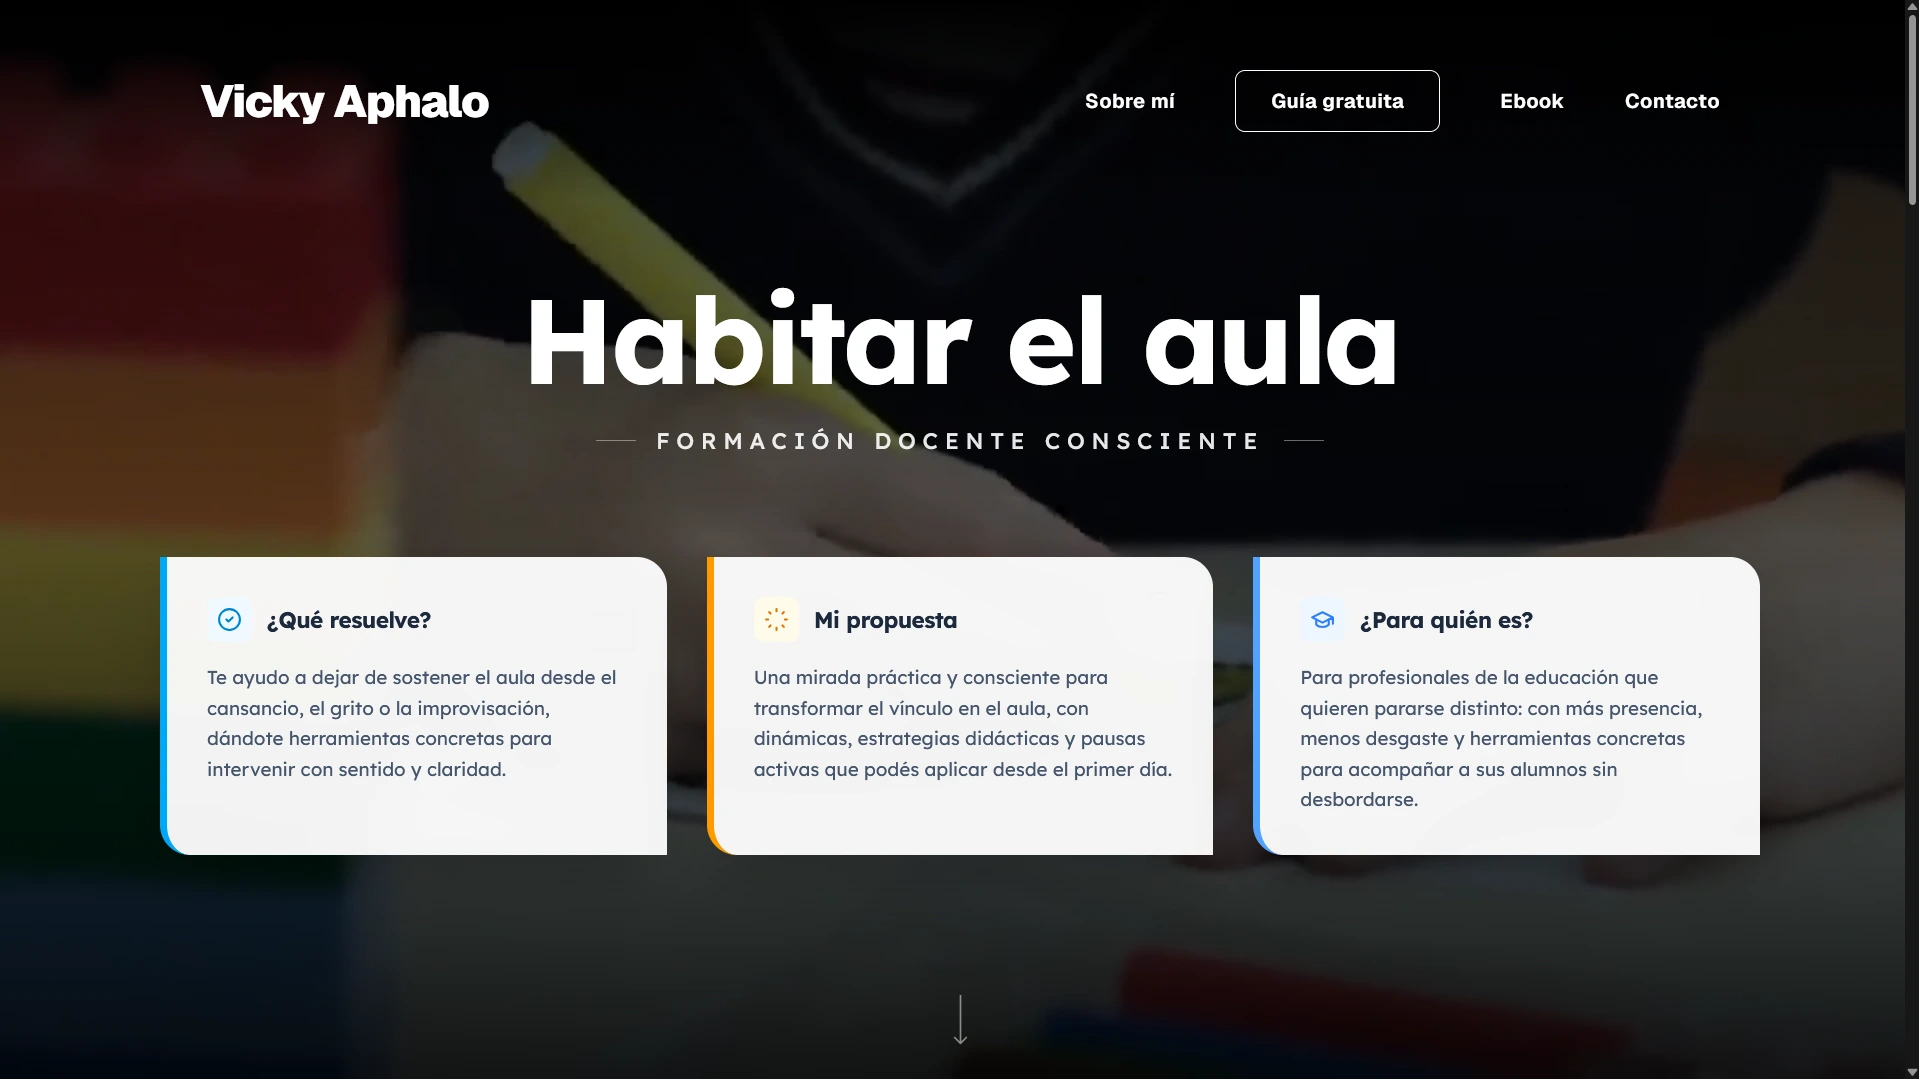
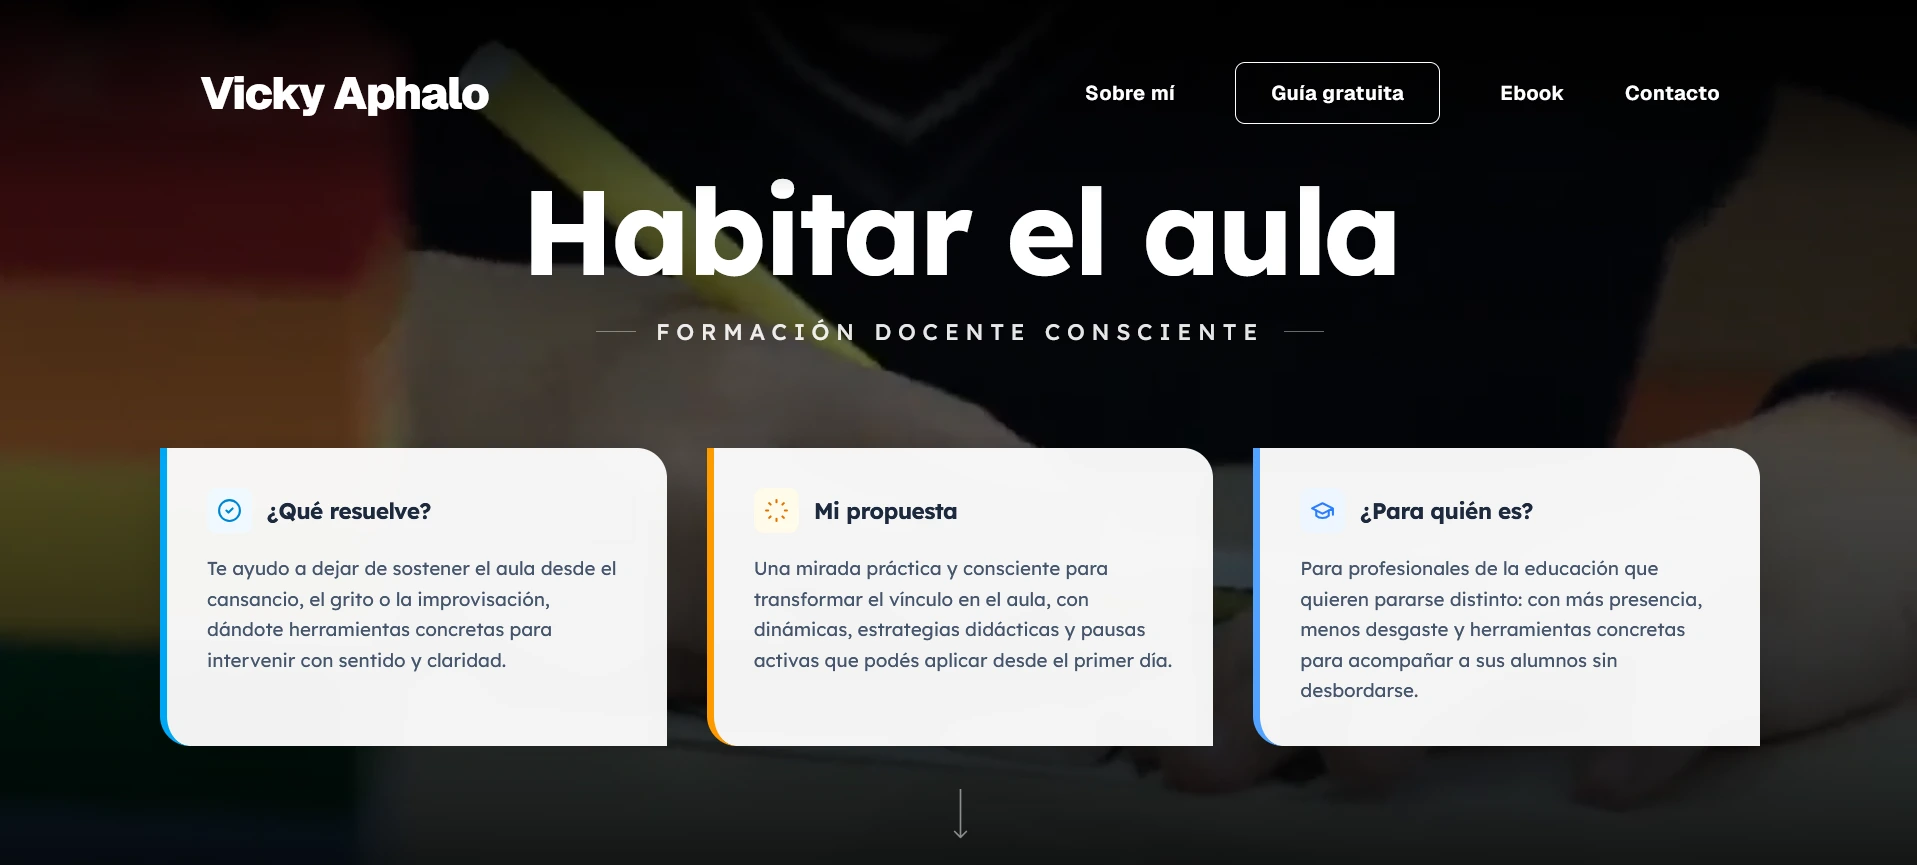
mejorando ui

diff --git a/components/sections/portfolio.tsx b/components/sections/portfolio.tsx
@@ -2,7 +2,7 @@
 
 import Image from "next/image";
 import { motion } from "framer-motion";
-import { ArrowUpRight } from "lucide-react";
+import { ArrowUpRight, Handshake } from "lucide-react";
 
 interface Project {
   client: string;
@@ -12,6 +12,40 @@ interface Project {
   link: string;
   services: string[];
   date: string;
+  metrics?: { value: string; label: string }[];
+  integrations?: { name: string; color: string; type: "mercadopago" | "gumroad" }[];
+}
+
+function MercadoPagoIcon({ className = "h-3.5 w-3.5" }: { className?: string }) {
+  return <Handshake className={className} strokeWidth={2.2} />;
+}
+
+function GumroadIcon({ className = "h-3.5 w-3.5" }: { className?: string }) {
+  return (
+    <svg viewBox="0 0 24 24" fill="currentColor" className={className}>
+      <path d="M12 0C5.373 0 0 5.373 0 12s5.373 12 12 12 12-5.373 12-12S18.627 0 12 0zm5.132 15.656c-.98 1.127-2.373 1.748-4.025 1.748-3.364 0-5.74-2.396-5.74-5.808 0-3.411 2.376-5.807 5.74-5.807 1.796 0 3.197.697 4.093 1.854l-1.637 1.412c-.59-.751-1.41-1.162-2.456-1.162-2.022 0-3.363 1.502-3.363 3.703 0 2.202 1.341 3.704 3.363 3.704 1.25 0 2.136-.5 2.682-1.341h-2.932v-2.091h5.275v3.788z" />
+    </svg>
+  );
+}
+
+function BrushUnderline({ className = "w-full h-2 text-[#ffa500]" }: { className?: string }) {
+  return (
+    <svg
+      viewBox="0 0 100 12"
+      fill="none"
+      xmlns="http://www.w3.org/2000/svg"
+      className={className}
+      preserveAspectRatio="none"
+    >
+      <path
+        d="M2 6C20 2.5 50 2 98 5.5C65 9 30 9.5 4 7"
+        stroke="currentColor"
+        strokeWidth="2.5"
+        strokeLinecap="round"
+        strokeLinejoin="round"
+      />
+    </svg>
+  );
 }
 
 const clientProjects: Project[] = [
@@ -24,6 +58,15 @@ const clientProjects: Project[] = [
     image: "/images/sitiovicky.webp",
     link: "https://vickyaphalo.site",
     services: ["Educación", "Bienestar docente"],
+    metrics: [
+      { value: "< 1s", label: "Carga rápida" },
+      { value: "100%", label: "SEO Optimizado" },
+      { value: "Full", label: "Adaptado a celulares" },
+    ],
+    integrations: [
+      { name: "Mercado Pago", color: "#009ee3", type: "mercadopago" },
+      { name: "Gumroad", color: "#7700c1", type: "gumroad" },
+    ],
   }
 ];
 
@@ -50,42 +93,51 @@ const demoProjects: Project[] = [
   }
 ];
 
-function ProjectCard({ project, index = 0 }: { project: Project; index?: number }) {
+function ProjectCard({
+  project,
+  index = 0,
+  isReal = false,
+}: {
+  project: Project;
+  index?: number;
+  isReal?: boolean;
+}) {
   return (
     <motion.div
       initial={{ opacity: 0, y: 30 }}
       whileInView={{ opacity: 1, y: 0 }}
-      transition={{ duration: 0.8, ease: [0.16, 1, 0.3, 1] }}
-      viewport={{ once: true, margin: "-100px" }}
-      className="group flex flex-col gap-8 w-full rounded-[2.5rem] bg-white/10 border border-white/20 p-6 sm:p-8 lg:p-10 transition-colors hover:bg-white/15 hover:border-white/30"
+      transition={{ duration: 1, ease: [0.22, 1, 0.36, 1] }}
+      viewport={{ once: true, margin: "-50px" }}
+      className="group flex flex-col gap-6 sm:gap-8 w-full"
     >
       {/* IMAGE CONTAINER */}
       <a
         href={project.link}
         target="_blank"
         rel="noopener noreferrer"
-        className="relative block w-full overflow-hidden rounded-3xl bg-white/[0.02] cursor-pointer"
+        className="relative block w-full overflow-hidden rounded-xl sm:rounded-2xl bg-white/[0.02] cursor-pointer"
       >
         <div className="relative aspect-video w-full overflow-hidden">
           <Image
             src={project.image}
             alt={`Proyecto de identidad digital para ${project.client} - ${project.industry}`}
             fill
-            className="object-cover object-top opacity-90 transition-all duration-700 ease-out group-hover:scale-[1.03] group-hover:opacity-100"
+            className="object-cover object-top opacity-90 transition-all duration-1000 ease-[cubic-bezier(0.22,1,0.36,1)] group-hover:scale-[1.04] group-hover:opacity-100"
             sizes="(max-width: 1024px) 100vw, 80vw"
             priority={index === 0}
           />
         </div>
-        <div className="absolute inset-0 rounded-3xl ring-1 ring-inset ring-white/10 pointer-events-none transition-colors duration-500 group-hover:ring-white/20" />
+
+        <div className="absolute inset-0 rounded-xl sm:rounded-2xl ring-1 ring-inset ring-white/10 pointer-events-none transition-colors duration-700 group-hover:ring-white/25" />
       </a>
 
       {/* TEXT CONTAINER */}
-      <div className="flex flex-col md:flex-row md:items-start justify-between gap-8 md:gap-12">
+      <div className="flex flex-col md:flex-row md:items-start justify-between gap-6 md:gap-12 pt-2">
         <div className="flex flex-col gap-2 md:w-[45%]">
-          <span className="text-xs font-semibold tracking-[0.2em] text-brand-secondary uppercase">
+          <span className="text-xs font-semibold tracking-[0.2em] text-blue-400 uppercase">
             {project.industry}
           </span>
-          <h3 className="text-4xl sm:text-5xl font-black uppercase tracking-tighter text-white">
+          <h3 className="text-3xl sm:text-5xl font-black uppercase tracking-tighter text-white">
             {project.client}
           </h3>
           <span className="mt-1 text-sm font-medium text-zinc-500">
@@ -95,7 +147,7 @@ function ProjectCard({ project, index = 0 }: { project: Project; index?: number 
             {project.services.map((service) => (
               <span
                 key={service}
-                className="rounded-full border border-white/10 bg-white/[0.02] px-3 py-1.5 text-[10px] font-semibold uppercase tracking-widest text-zinc-400"
+                className="rounded-full border border-white/10 bg-white/[0.03] px-3.5 py-1.5 text-[10px] font-semibold uppercase tracking-widest text-zinc-400"
               >
                 {service}
               </span>
@@ -104,18 +156,67 @@ function ProjectCard({ project, index = 0 }: { project: Project; index?: number 
         </div>
 
         <div className="flex flex-col gap-6 md:w-[50%]">
-          <p className="text-lg leading-relaxed text-zinc-400">
+          <p className="text-base sm:text-lg leading-relaxed text-zinc-400">
             {project.summary}
           </p>
+
+          {project.metrics && project.metrics.length > 0 && (
+            <div className="flex flex-wrap items-center gap-6 sm:gap-8 border-y border-white/[0.07] py-3.5">
+              {project.metrics.map((metric) => (
+                <div key={metric.label} className="flex flex-col">
+                  <span className="text-base sm:text-lg font-black tracking-tight text-white">
+                    {metric.value}
+                  </span>
+                  <span className="text-[10px] font-medium tracking-wider text-zinc-500 uppercase">
+                    {metric.label}
+                  </span>
+                </div>
+              ))}
+            </div>
+          )}
+
+          {project.integrations && project.integrations.length > 0 && (
+            <div className="flex flex-col sm:flex-row sm:items-center gap-2 sm:gap-2.5">
+              <span className="text-[11px] font-medium text-zinc-400">
+                Integración con pasarelas de pago:
+              </span>
+              <div className="flex items-center gap-2">
+                {project.integrations.map((item) => (
+                  <span
+                    key={item.name}
+                    style={{
+                      color: item.color,
+                      borderColor: `${item.color}35`,
+                      backgroundColor: `${item.color}15`,
+                    }}
+                    className="inline-flex items-center gap-1.5 rounded-md border px-2.5 py-1 text-[11px] font-bold tracking-tight shrink-0"
+                  >
+                    {item.type === "mercadopago" ? (
+                      <MercadoPagoIcon className="h-3.5 w-3.5" />
+                    ) : item.type === "gumroad" ? (
+                      <GumroadIcon className="h-3.5 w-3.5" />
+                    ) : null}
+                    {item.name}
+                  </span>
+                ))}
+              </div>
+            </div>
+          )}
+
           <a
             href={project.link}
             target="_blank"
             rel="noopener noreferrer"
             className="inline-flex w-fit items-center gap-3 text-xs font-bold tracking-[0.2em] text-white uppercase transition-colors hover:text-brand-secondary relative group/link"
           >
-            Visitar Sitio
-            <span className="flex h-8 w-8 items-center justify-center rounded-full bg-white/10 transition-colors group-hover/link:bg-brand-secondary/20 group-hover/link:text-brand-secondary">
-              <ArrowUpRight className="h-4 w-4 transition-transform group-hover/link:scale-110" />
+            <span className="relative pb-3.5">
+              Visitar Sitio
+              {isReal && (
+                <BrushUnderline className="absolute -bottom-1 left-0 w-full h-2.5 text-[#ffa500] pointer-events-none transition-transform duration-300 group-hover/link:scale-x-105" />
+              )}
+            </span>
+            <span className="flex h-8 w-8 items-center justify-center rounded-full bg-white/10 transition-all duration-300 group-hover/link:bg-brand-secondary/20 group-hover/link:text-brand-secondary group-hover:scale-105">
+              <ArrowUpRight className="h-4 w-4 transition-transform duration-300 group-hover/link:translate-x-0.5 group-hover/link:-translate-y-0.5" />
             </span>
           </a>
         </div>
@@ -169,7 +270,7 @@ export function Portfolio() {
         {/* CLIENT PROJECTS LIST */}
         <div className="flex flex-col gap-32">
           {clientProjects.map((project, index) => (
-            <ProjectCard key={project.client} project={project} index={index} />
+            <ProjectCard key={project.client} project={project} index={index} isReal />
           ))}
         </div>
 
@@ -189,7 +290,7 @@ export function Portfolio() {
         {/* DEMO PROJECTS LIST */}
         <div className="flex flex-col gap-32">
           {demoProjects.map((project, index) => (
-            <ProjectCard key={project.client} project={project} index={index + clientProjects.length} />
+            <ProjectCard key={project.client} project={project} index={index + clientProjects.length} isReal={false} />
           ))}
         </div>
       </div>
